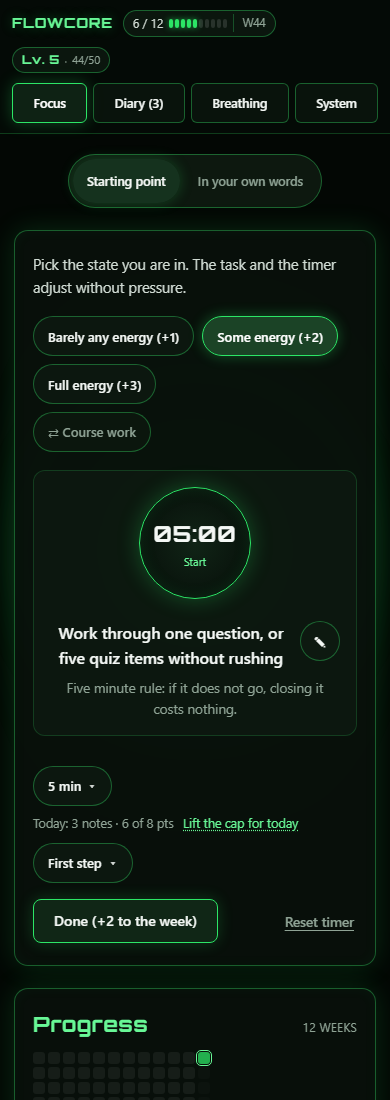
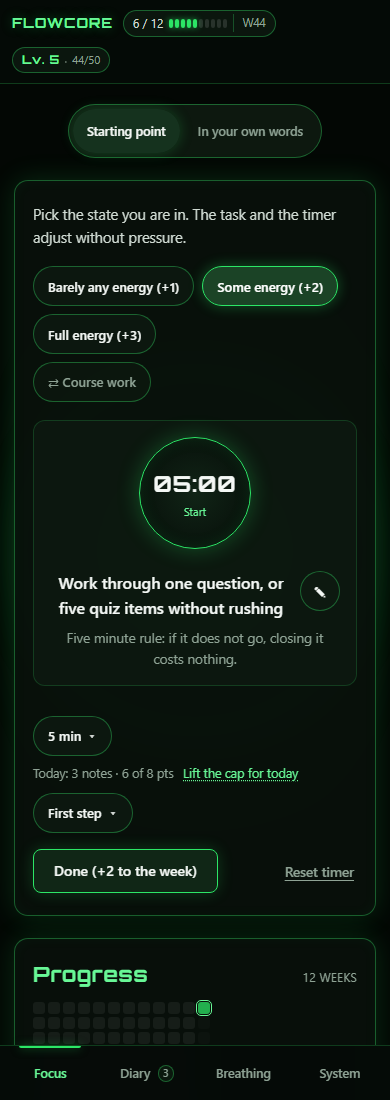
docs(flowcore): the READMEs mention the bar, the shots show it
Both languages now say the sections moved to a 54 px strip at the
bottom, and the check count follows the new tests. Screenshots are
regenerated from this build, so the phone image carries the bar and
the desktop header carries the diary badge instead of "(3)".

diff --git a/README.ru.md b/README.ru.md
@@ -27,7 +27,7 @@
 
 **Две карточки, один переключатель.** «Точка старта» и «Своими словами» меняются местами кнопкой над ними: выбранная карточка занимает всю ширину, вторая ждёт в одном нажатии, и выбор запоминается. На телефоне это один экран вместо прокрутки.
 
-**На телефоне — две сводки.** Ряд длительностей таймера и три чипа первого шага живут за кнопками «5 мин ▾» и «Первый шаг ▾»: раскрываются на месте, закрываются после выбора, а сводка держит текущее значение. Цели касания выросли до 40 px, главное действие — до 44, чтобы в плохой день не приходилось прицеливаться.
+**На телефоне — две сводки.** Ряд длительностей таймера и три чипа первого шага живут за кнопками «5 мин ▾» и «Первый шаг ▾»: раскрываются на месте, закрываются после выбора, а сводка держит текущее значение. Цели касания выросли до 40 px, главное действие — до 44, чтобы в плохой день не приходилось прицеливаться. Сами четыре раздела переехали в полосу высотой 54 px внизу, текущий отмечен линией: шапка больше не липнет к верху, а новый раздел открывается с начала.
 
 **Мост после остановки.** Если остановился вчера — сверху появляется «вчера остановился на: …» и кнопка «начать 5 минут с этого места». Возврат в работу не требует вспоминать, где ты был.
 
@@ -118,7 +118,7 @@ python serve.py --lan      # доступ в домашней сети по http
 node tests/run.js
 ```
 
-Сейчас **433 проверки**: недельный ролловер и архив, миграция старых бэкапов, замок, дневной потолок и его снятие на день, уровень и скины, резерв, бонус отдыха, переключатель карточек, сводки на телефоне, заметка к задаче и набор эмодзи, методики дыхания и фазы, шум с общим выключателем звука, экспорт в Markdown, редактор сфер, интервью первого запуска, словарь на четыре языка (все ключи из разметки и кода на месте, склонения через `Intl.PluralRules`). Тесты вырезают скрипт из настоящего `flowcore.html`, поэтому проверяют именно тот файл, который открывает браузер.
+Сейчас **446 проверок**: недельный ролловер и архив, миграция старых бэкапов, замок, дневной потолок и его снятие на день, уровень и скины, резерв, бонус отдыха, переключатель карточек, сводки на телефоне, заметка к задаче и набор эмодзи, методики дыхания и фазы, шум с общим выключателем звука, экспорт в Markdown, редактор сфер, интервью первого запуска, словарь на четыре языка (все ключи из разметки и кода на месте, склонения через `Intl.PluralRules`). Тесты вырезают скрипт из настоящего `flowcore.html`, поэтому проверяют именно тот файл, который открывает браузер.
 
 Те же проверки запускаются на GitHub Actions при каждом push и pull request — файл `.github/workflows/tests.yml`. Сборки нет, поэтому шагов всего три: checkout, Node, `node tests/run.js`.
 

diff --git a/README.md b/README.md
@@ -27,7 +27,7 @@ If you are in a hurry:
 
 **Two cards, one switch.** "Starting point" and "In your own words" trade places through a switch above them: the chosen card takes the whole width, the other waits one tap away, and the choice is remembered. On a phone that is one screen instead of a scroll.
 
-**On a phone, two summary buttons.** The row of timer lengths and the three first-step chips fold behind "5 min ▾" and "First step ▾": they open in place, close after a choice, and the summary keeps the current value. Every target grows to 40 px, and the primary action to 44, so nothing has to be aimed at on a bad day.
+**On a phone, two summary buttons.** The row of timer lengths and the three first-step chips fold behind "5 min ▾" and "First step ▾": they open in place, close after a choice, and the summary keeps the current value. Every target grows to 40 px, and the primary action to 44, so nothing has to be aimed at on a bad day. The four sections themselves move into a 54 px bar along the bottom, the current one marked by a line; the header stops sticking and a new section opens from the top.
 
 **A bridge after stopping.** If you stopped yesterday, a line at the top says where, with one button that starts five minutes from that exact place. Coming back does not require remembering where you were.
 
@@ -118,7 +118,7 @@ On Windows, `FlowCore.cmd` does the same from a double click.
 node tests/run.js
 ```
 
-There are **433 checks**: week rollover and the archive, migration of older backups, the lock, the daily cap and lifting it for a day, level and skins, the reserve, the rest bonus, the card switch, the phone summaries, the task note and its emoji set, breathing techniques and their phases, noise under the master sound switch, Markdown export, the area editor, the first-run interview, and the dictionary in four languages (every key from the markup and the code exists, plurals go through `Intl.PluralRules`). The tests cut the script out of the real `flowcore.html`, so they check the file the browser actually opens.
+There are **446 checks**: week rollover and the archive, migration of older backups, the lock, the daily cap and lifting it for a day, level and skins, the reserve, the rest bonus, the card switch, the phone summaries, the task note and its emoji set, breathing techniques and their phases, noise under the master sound switch, Markdown export, the area editor, the first-run interview, and the dictionary in four languages (every key from the markup and the code exists, plurals go through `Intl.PluralRules`). The tests cut the script out of the real `flowcore.html`, so they check the file the browser actually opens.
 
 The same checks run on GitHub Actions for every push and pull request, see `.github/workflows/tests.yml`. There is no build, so the job is three steps.
 
